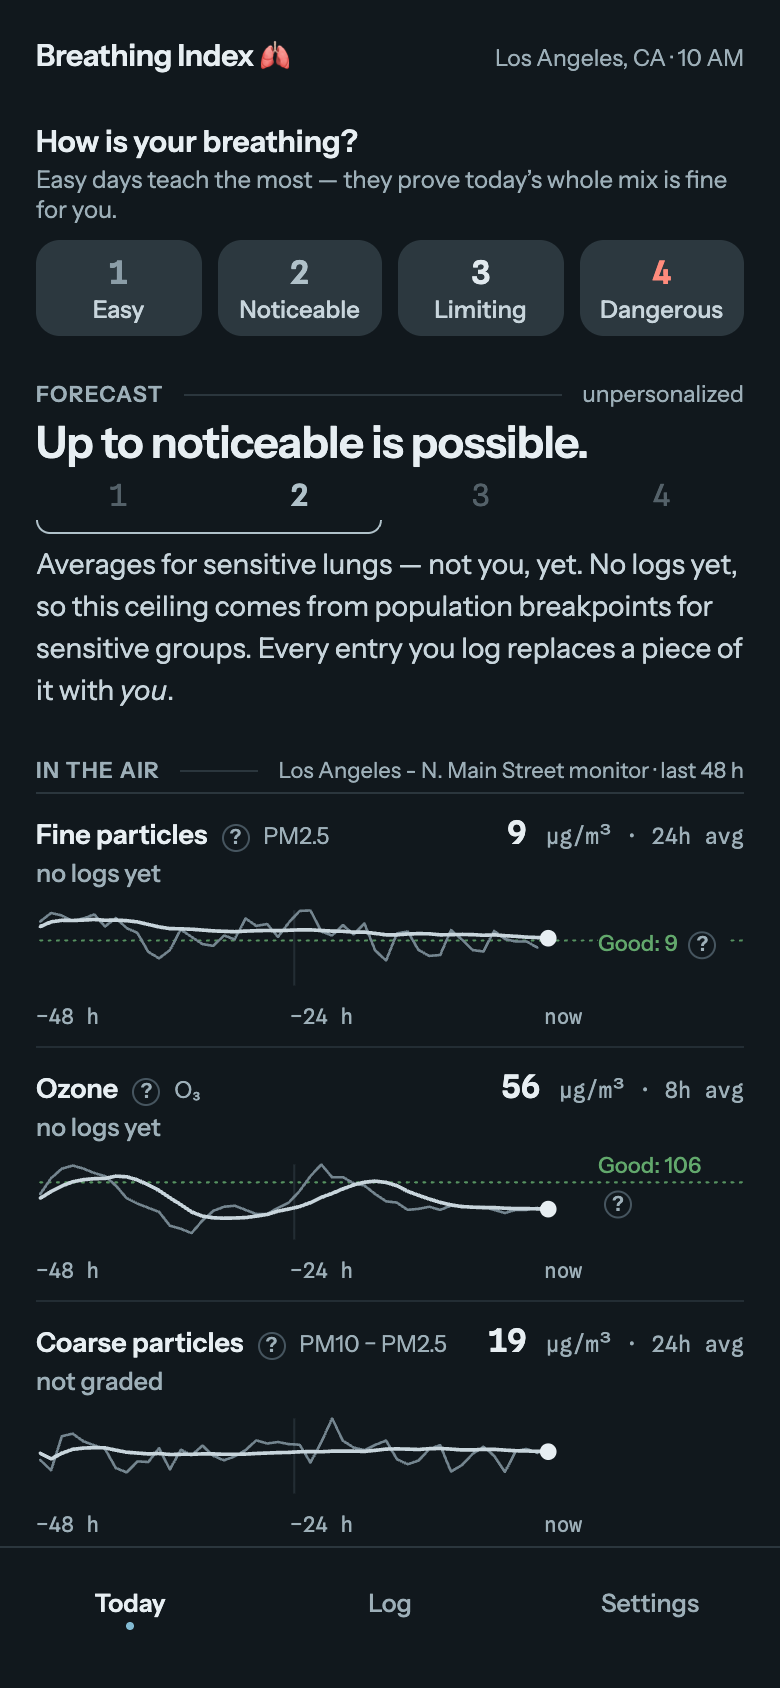
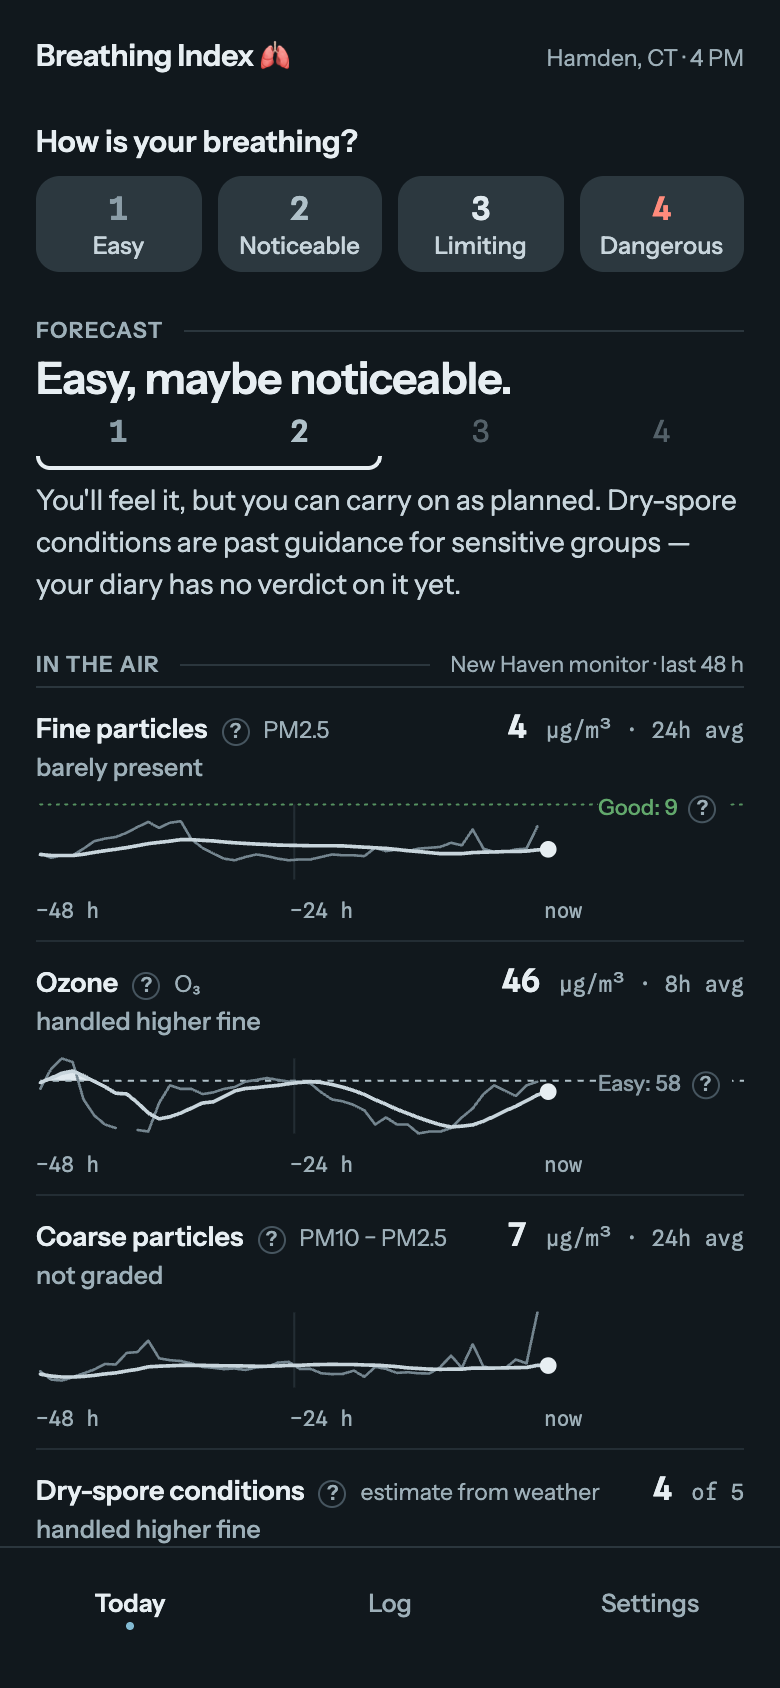
Screenshot the app with real logs in it
The previous set showed the app empty: a forecast marked unpersonalized,
"no logs yet" under every row, and a Log screen reading zero entries over
four rows of "no evidence yet either way". That is honest and it sells
nothing, because the thing the project exists to do only becomes visible
once there is a diary behind it.

Reshot with twenty-two real entries from Drew's own diary, seeded into
localStorage, in Hamden where they were logged and on the New Haven
monitor that produced them. The difference is the whole argument: the
forecast is personal, each row carries the diary's own easy level as a
dashed line instead of the EPA's ceiling, rows read "handled higher fine"
rather than "no logs yet", and the by-hour line says when the day eases.

The third panel is now the Log screen rather than the first-run screen,
because with a diary behind it that screen shows learned verdicts —
ozone came out a trigger, the pollens and dry air have not — which is
the payoff the other two build toward. The first-run screen stays in
docs/img and is still linked.

Captured against production at 390x844 at 2x with analytics seeded off,
so none of these runs reached Mixpanel.

diff --git a/README.md b/README.md
@@ -4,12 +4,12 @@ A personal air quality PWA. Live at [breathingindex.com](https://breathingindex.
 
 <table>
 <tr>
-<td width="33%"><img src="docs/img/dark-today.png" alt="The Today screen: a four-button breathing rating, a forecast marked unpersonalized, and the first three measurements."></td>
-<td width="33%"><img src="docs/img/dark-air.png" alt="The rest of In the air: coarse particles, dry-spore conditions, grass and weed pollen, and dew point, each with a 48-hour trace."></td>
-<td width="33%"><img src="docs/img/dark-intro.png" alt="The first screen: the AQI is not calibrated for your lungs, the four ratings explained, and a note that logs never leave the phone."></td>
+<td width="33%"><img src="docs/img/dark-today.png" alt="The Today screen: the four rating buttons, a forecast reading Easy, maybe noticeable, and the first measurements with the diary's own thresholds beside them."></td>
+<td width="33%"><img src="docs/img/dark-air.png" alt="The rest of In the air: dry-spore conditions, grass and weed pollen and dew point, each with a 48-hour trace and a dashed line marking the level this diary has handled."></td>
+<td width="33%"><img src="docs/img/dark-diary.png" alt="The Log screen: twenty-two entries, and a verdict on each variable including ozone marked as a trigger."></td>
 </tr>
 <tr>
-<td colspan="3" align="center"><em>Los Angeles, on a day with nothing much wrong with the air. Every variable gets its own row, its own trailing average over the live measure, and its own note about what your logs do or do not yet say. The third screen is what a first-time visitor lands on.</em></td>
+<td colspan="3" align="center"><em>Twenty-two real entries from my own diary, in Hamden, on the New Haven monitor. The dashed line on each row is my easy level rather than the EPA's, because there are enough logs now to have one. Ozone came out a trigger; dry air and the pollens have so far not.</em></td>
 </tr>
 </table>
 
@@ -44,7 +44,7 @@ Freshness comes from the payload's own newest hour rather than from when the res
 
 Temperatures display in °F for browsers whose locale resolves to a Fahrenheit region and °C everywhere else, overridable in Settings. Stored exposures are always metric, so the setting relabels the display and never rewrites logged history.
 
-The palette follows `prefers-color-scheme`, with no manual toggle: a 4 AM breathing check should not be a flashlight to the face, and the four severity colours are re-pointed rather than inverted so the quiet end of the ramp stays quiet on a dark ground. Every screenshot in this README is the dark palette at phone size; [Settings](docs/img/dark-settings.png) and the [Log screen](docs/img/dark-diary.png) are in `docs/img/` too.
+The palette follows `prefers-color-scheme`, with no manual toggle: a 4 AM breathing check should not be a flashlight to the face, and the four severity colours are re-pointed rather than inverted so the quiet end of the ramp stays quiet on a dark ground. Every screenshot in this README is the dark palette at phone size; [Settings](docs/img/dark-settings.png) and the [first-run screen](docs/img/dark-intro.png) are in `docs/img/` too.
 
 Analytics is Mixpanel, lazy-loaded, pseudonymous (a device ID, not an account) and content-free: events record that a screen was viewed or an entry saved, never what was rated, tagged, noted, or measured, and IP geolocation is off. Turn it off entirely in Settings. Fonts are self-hosted, so the app makes no third-party request for chrome either.
 
